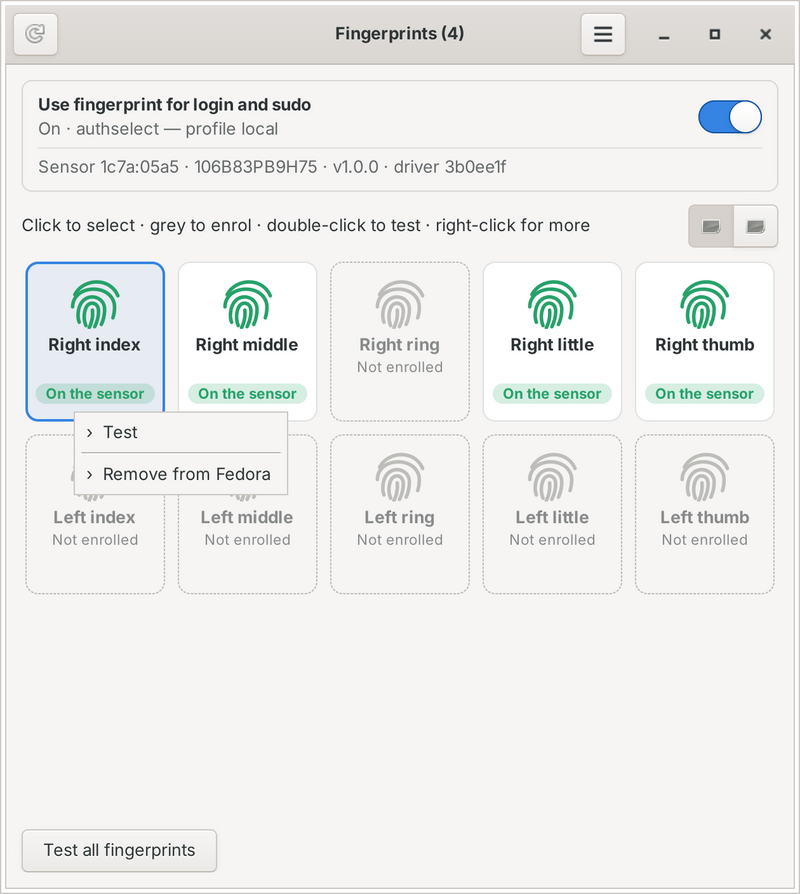
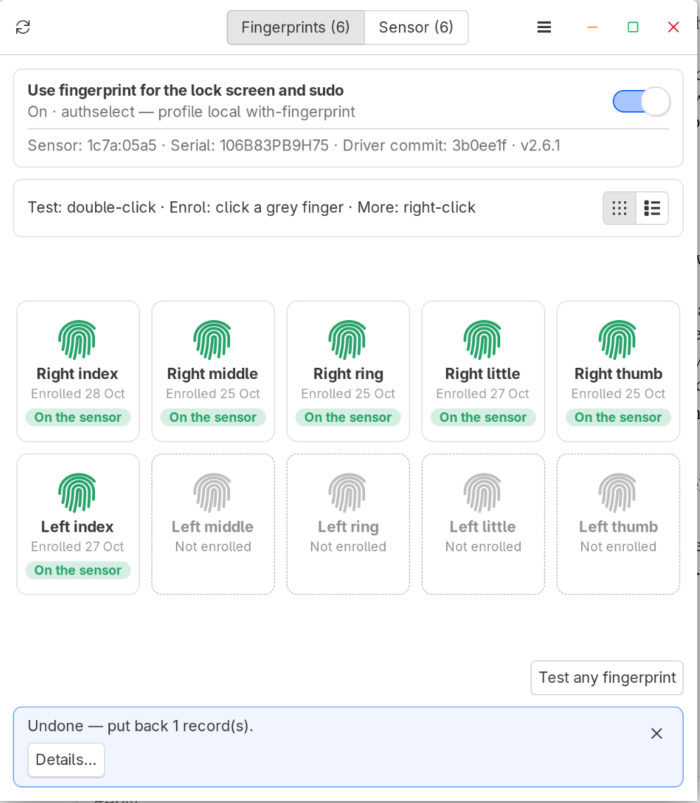
README: new Fingerprint Manager screenshots (350px, two by two)
Claude-Session: https://claude.ai/code/session_01VcMedtUznNVQTouJEiiEh4

diff --git a/README.md b/README.md
@@ -157,8 +157,12 @@ A small window for your fingerprints and the sensor, in the app menu as **Galaxy
 - **Information panel** at the bottom: what just happened, and anything that needs your attention.
 
 <p>
-  <img src="images/fingerprint-manager.png" width="400" alt="Galaxy Book Fingerprint Manager: all ten fingers, four enrolled, with the right-click menu (Test, Remove from Fedora) open">
-  <img src="images/fingerprint-manager-enrol.png" width="400" alt="Enrolling a finger: Lift and touch again, 3 of 5 touches">
+  <img src="images/fingerprint-manager.png" width="350" alt="Fingerprints tab: six fingers enrolled, the information panel at the bottom">
+  <img src="images/fingerprint-manager-sensor.png" width="350" alt="Sensor tab: six of ten slots used; hovering one says it is also used by CachyOS, MX Linux, Linux Mint and Ubuntu">
+</p>
+<p>
+  <img src="images/fingerprint-manager-enrol.png" width="350" alt="Enrolling the left middle finger: lift and touch again, 9 of 16 touches">
+  <img src="images/fingerprint-manager-test.png" width="350" alt="Testing a fingerprint: Match — right ring finger">
 </p>
 
 <details>
